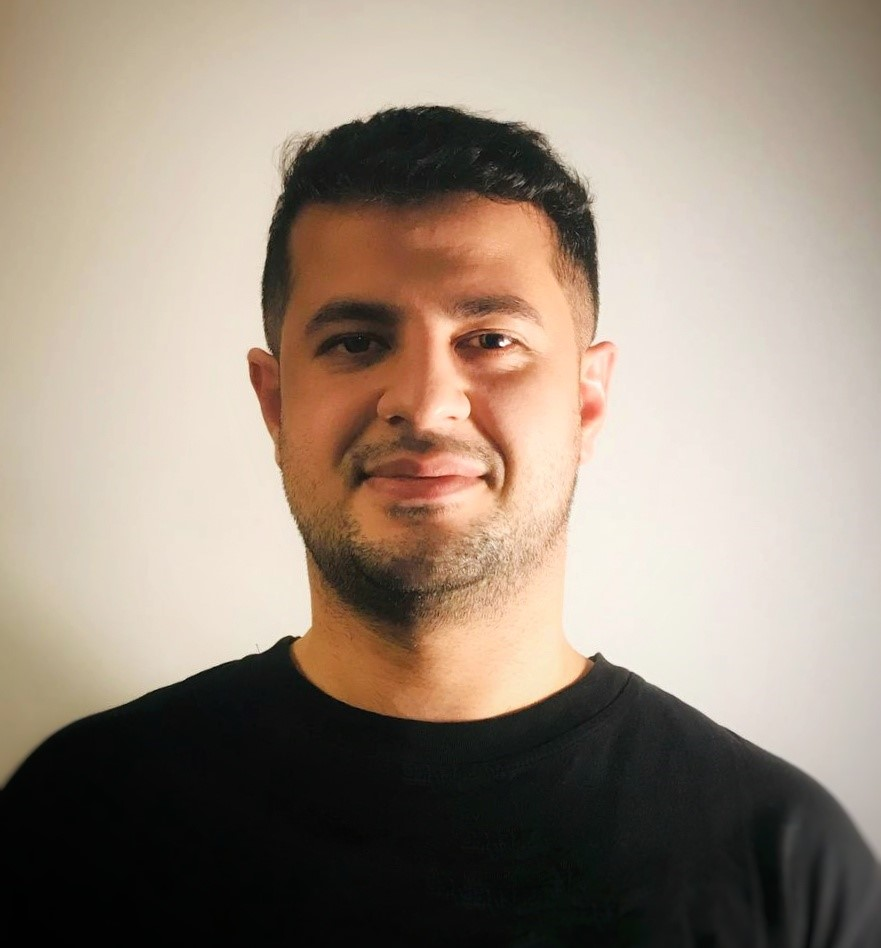
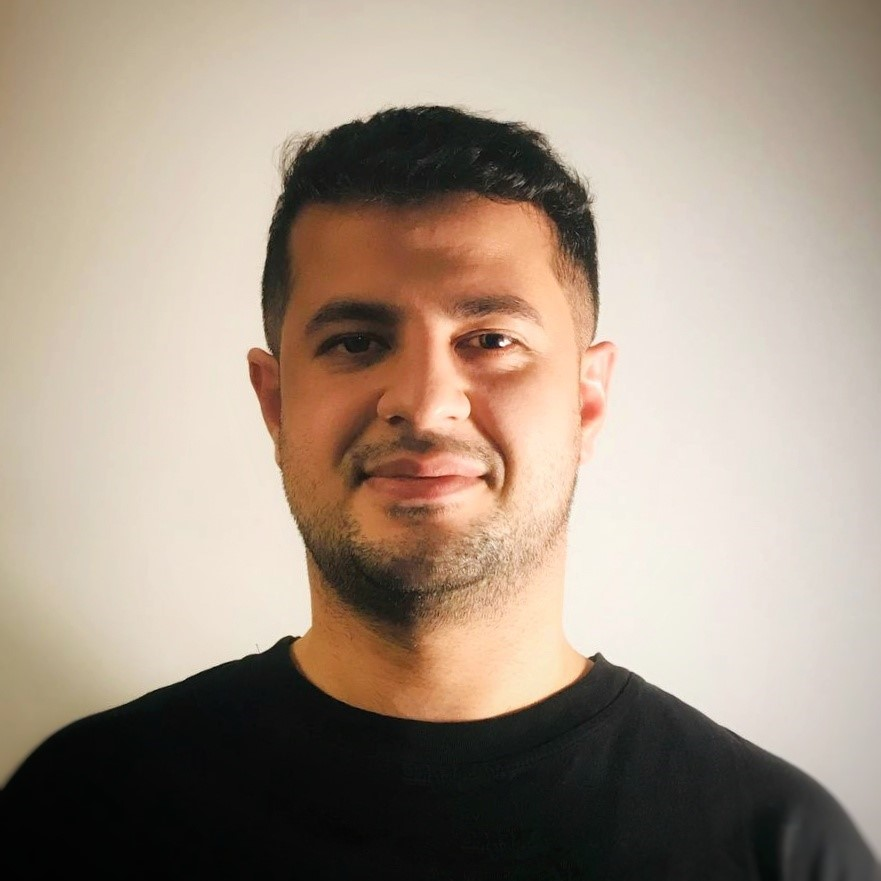
resized profile picture

Changed region(s): [[0.0, 0.0919, 1.0, 1.0], [0.8581, 0.9807, 0.8888, 1.0]]

diff --git a/index.html b/index.html
@@ -20,7 +20,7 @@
 <body>
     <header class="headr">
         <br>
-        <img src="resource/img/ppcircled.jpg" alt="Avatar" title="Bugra Kilic - 2021" class="pphoto">
+        <img src="resource/img/bk1.jpg" alt="Avatar" title="Bugra Kilic - 2021" class="pphoto">
         <h1 class="mainheader">Bugra Kilic</h1>
         <h3 class="subheader">Engineer • PM at <a href="https://www.argela.com.tr/en">Argela</a> • Community Builder at <a href="https://aws.amazon.com">AWS Cloud</a></h3>
         <h4 class="subheader">Network • System • Cloud • Security</h4>
